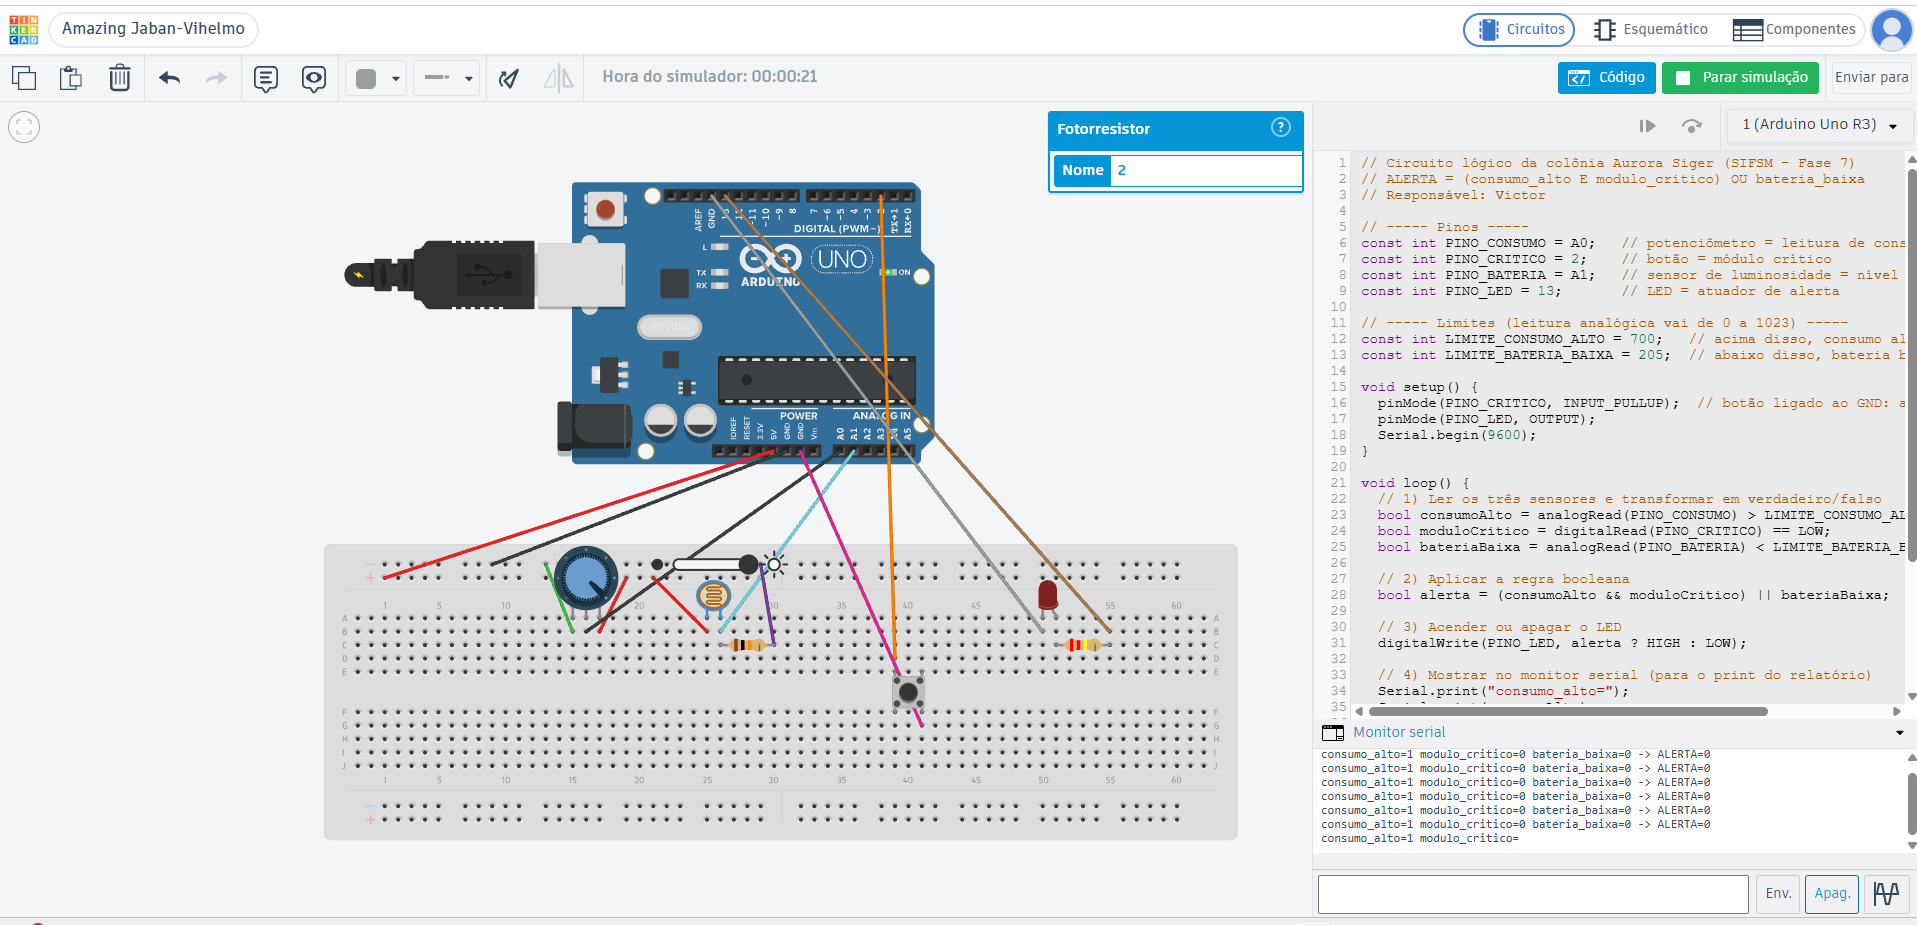
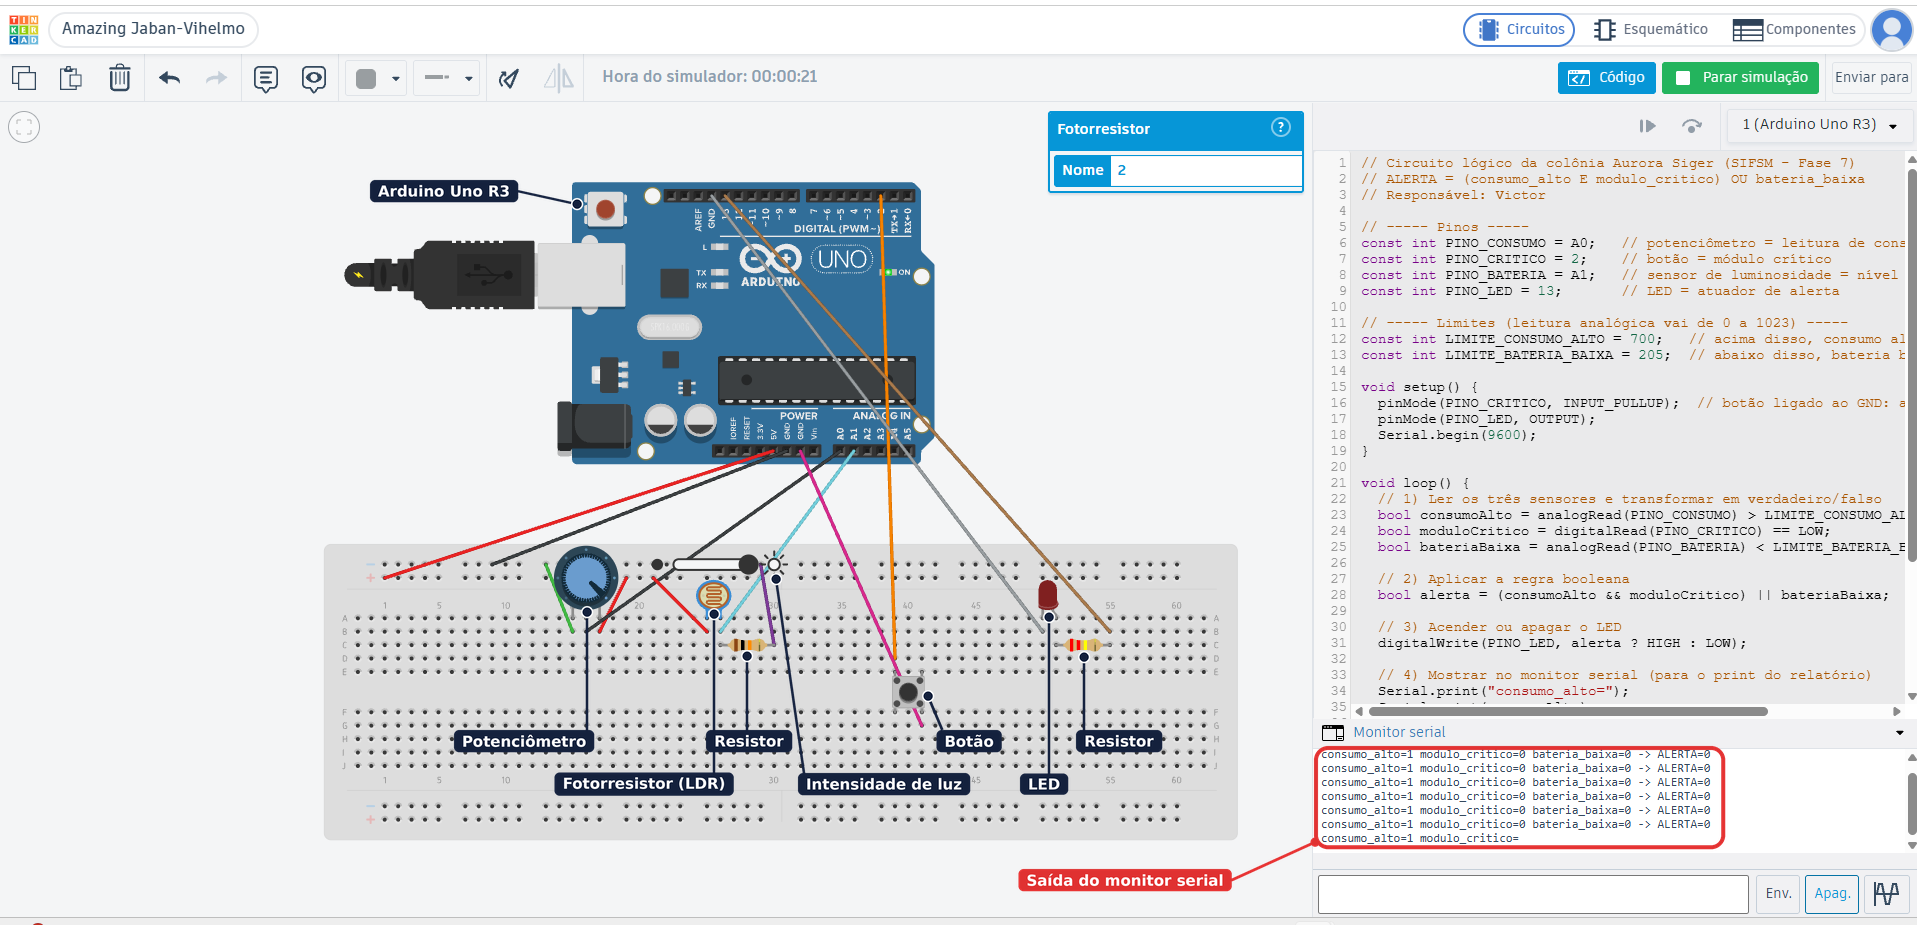
docs: atualiza imagens dos testes com legendas e destaque do monitor serial e altera o arquivo simulacao_computacional.py colocando a Responsável: Michelly

diff --git a/simulacao_computacional.py b/simulacao_computacional.py
@@ -2,7 +2,7 @@
 
 SoC(t) = SoC0 + (1/C) * integral de (P_solar - P_consumo) dt
 
-Responsável: Aelton
+Responsável: Michelly
 Critério: Simulação computacional e integração matemática (1,5)
 """
 import pandas as pd
